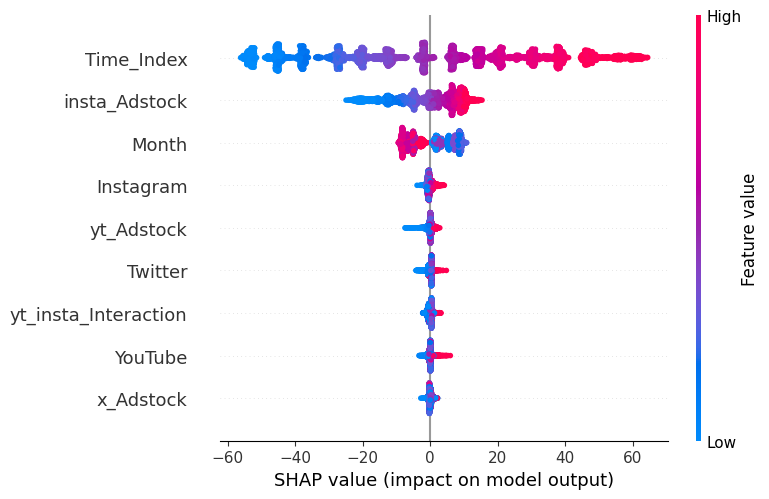
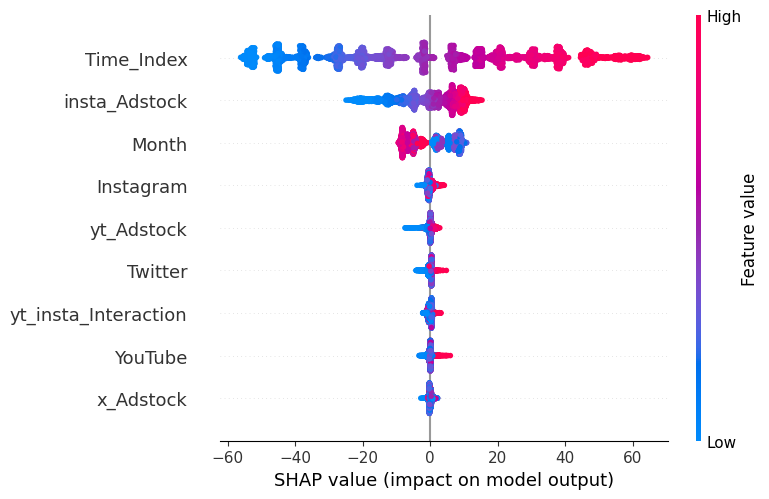
changes nameskaes

diff --git a/app/app.py b/app/app.py
@@ -18,7 +18,7 @@ from src.features import engineer_features
 # Page Config
 # -----------------------------------
 st.set_page_config(
-    page_title="AdSpend ROI Forecaster Engine",
+    page_title="InfluenceIQ Engine",
     page_icon="🚀",
     layout="wide",
     initial_sidebar_state="expanded"
@@ -70,12 +70,12 @@ st.sidebar.image(
 )
 
 st.sidebar.title(
-    "AdSpend Intelligence"
+    "InfluenceIQ Platform"
 )
 
 st.sidebar.markdown(
     """
-### 🚀 AI Marketing Platform
+### 🚀 AI Creator Intelligence Platform
 
 Capabilities:
 - Budget Optimization
@@ -123,7 +123,7 @@ feature_df = engineer_features(
 st.sidebar.header("⚙️ Scenario Simulator")
 
 budget = st.sidebar.slider(
-    "Total Marketing Budget",
+    "Creator Campaign Budget",
     min_value=1000,
     max_value=50000,
     value=10000,
@@ -133,10 +133,10 @@ budget = st.sidebar.slider(
 market_condition = st.sidebar.selectbox(
     "Market Scenario",
     [
-        "Stable Market",
-        "Holiday Surge",
-        "Social Media Boom",
-        "Economic Slowdown"
+        "Stable Audience",
+        "Viral Trend",
+        "Insta Explosion",
+        "Audience Fatigue"
     ]
 )
 
@@ -229,22 +229,22 @@ avg_insta = round(
 metric1, metric2, metric3, metric4 = st.columns(4)
 
 metric1.metric(
-    "📈 Latest Engagement",
+    "📈 Latest Budget",
     latest_engagement
 )
 
 metric2.metric(
-    "💰 Avg Engagement",
+    "💰 Avg Budget",
     avg_engagement
 )
 
 metric3.metric(
-    "📺 Avg YouTube Engagement",
+    "📺 Avg YouTube Budget",
     avg_yt
 )
 
 metric4.metric(
-    "📱 Avg Instagram Engagement",
+    "📱 Avg Instagram Budget",
     avg_insta
 )
 
@@ -279,7 +279,7 @@ with analytics_tab:
     )
 
 
-    st.subheader("📱 Creator Platform Budget Distribution")
+    st.subheader("📱 Average Creator Budget")
 
     spend_df = df[[
         "YouTube",

diff --git a/app/pages/1_Model_Health.py b/app/pages/1_Model_Health.py
@@ -21,7 +21,7 @@ from src.generate_data import generate_data
 # Page Config
 # -----------------------------------
 st.set_page_config(
-    page_title="Model Health Dashboard",
+    page_title="AI Model Health",
     page_icon="🩺",
     layout="wide"
 )

diff --git a/app/pages/2_Retrain_Model.py b/app/pages/2_Retrain_Model.py
@@ -25,7 +25,7 @@ from src.features import engineer_features
 # Page Config
 # -----------------------------------
 st.set_page_config(
-    page_title="Retrain ML Model",
+    page_title="Retraining Studio",
     page_icon="🔄",
     layout="wide"
 )

diff --git a/src/optimize.py b/src/optimize.py
@@ -30,7 +30,7 @@ def build_feature_row(youtube, instagram, twitter):
     import pandas as pd
 
     df = pd.DataFrame({
-        "Date": [pd.Timestamp("2026-01-01")],
+        "Date": [pd.Timestamp("2025-01-01")],
         "YouTube": [youtube],
         "Instagram": [instagram],
         "Twitter": [twitter]